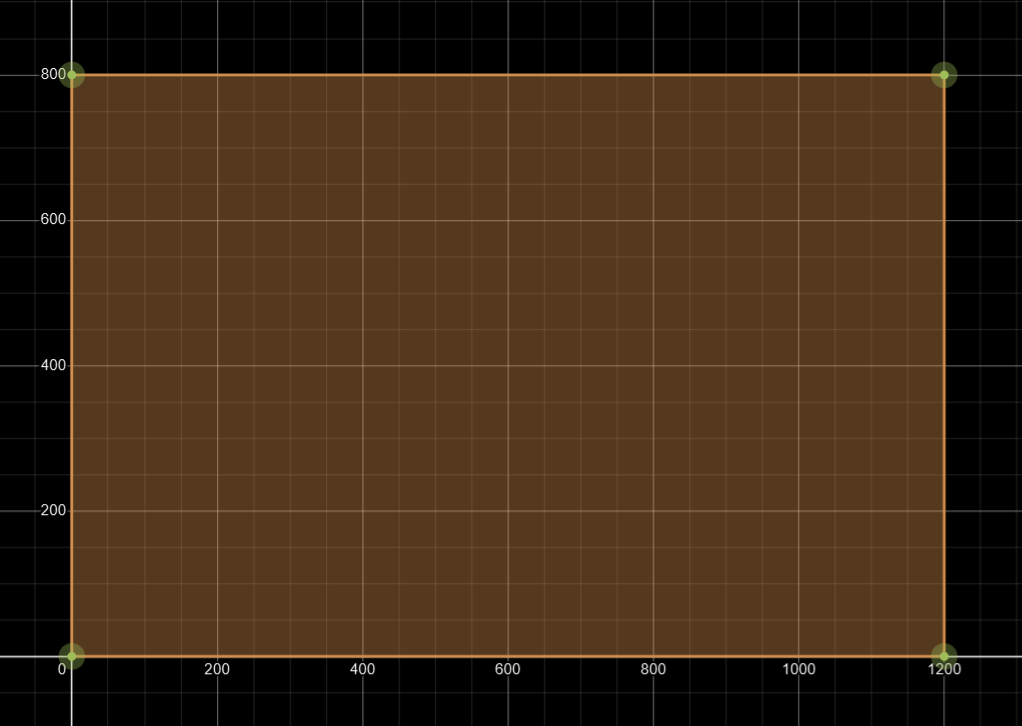
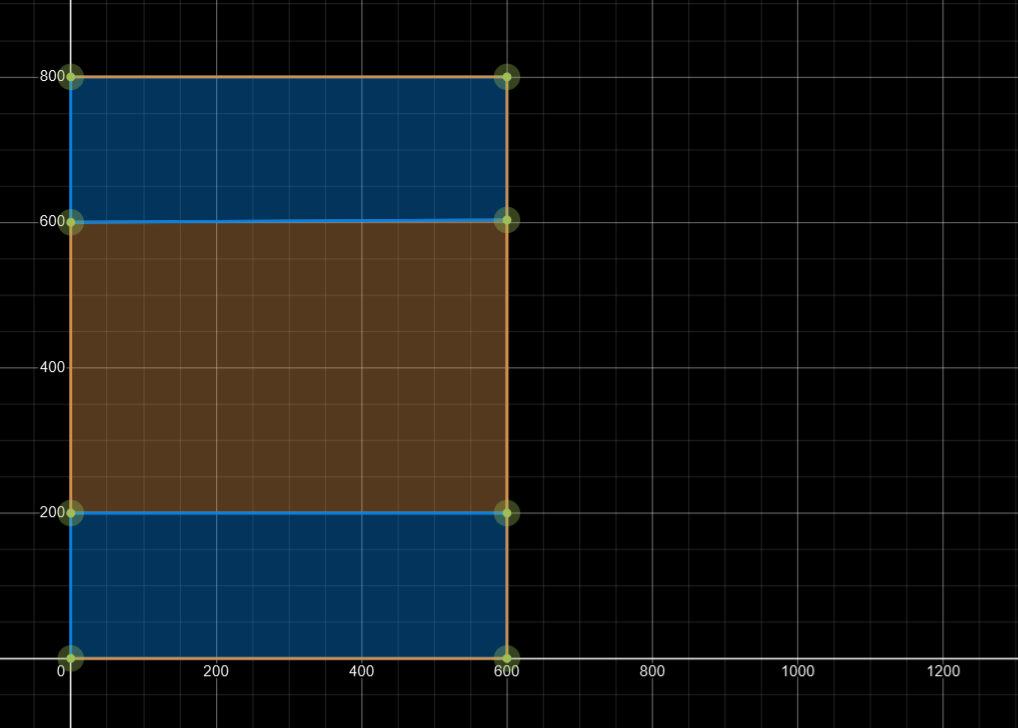
chapter 4 done

diff --git a/chapter04/src/main/java/io/github/heathensoft/guide/game/RendererTest.java b/chapter04/src/main/java/io/github/heathensoft/guide/game/RendererTest.java
@@ -22,10 +22,14 @@ public class RendererTest implements Disposable {
             #version 440
             layout (location = 0) in vec3 a_pos;
             layout (location = 1) in vec3 a_color;
+            const vec2 resolution = vec2(1200.0,800.0);
             out vec3 color;
             void main() {
                 color = a_color;
-                gl_Position = vec4(a_pos,1.0);
+                vec2 position_xy = vec2(a_pos.xy);
+                position_xy /= resolution;
+                position_xy = position_xy * 2.0 - 1.0;
+                gl_Position = vec4(position_xy, a_pos.z, 1.0);
             }""";
 
     private final static String fragment_shader_source = """
@@ -100,12 +104,23 @@ public class RendererTest implements Disposable {
         // ***********************************************************************************************
 
         float[] vertices = new float[] {
-                /*{ V0 }*/-1.0f, 1.0f, 0.0f,/*position (xyz)*/0.2f, 0.1f, 0.4f,/*color (rgb)*/
-                /*{ V1 }*/-1.0f,-1.0f, 0.0f,/*position (xyz)*/0.2f, 0.1f, 0.4f,/*color (rgb)*/
-                /*{ V2 }*/ 1.0f, 1.0f, 0.0f,/*position (xyz)*/0.2f, 0.1f, 0.4f,/*color (rgb)*/
-                /*{ V3 }*/ 1.0f, 1.0f, 0.0f,/*position (xyz)*/0.2f, 0.2f, 0.4f,/*color (rgb)*/
-                /*{ V4 }*/-1.0f,-1.0f, 0.0f,/*position (xyz)*/0.2f, 0.2f, 0.4f,/*color (rgb)*/
-                /*{ V5 }*/ 1.0f,-1.0f, 0.0f,/*position (xyz)*/0.2f, 0.2f, 0.4f,/*color (rgb)*/
+
+                /*{ V0 }*/0   , 800, 0,/*position (xyz)*/0.2f, 0.1f, 0.4f,/*color (rgb)*/
+                /*{ V1 }*/0   ,0   , 0,/*position (xyz)*/0.2f, 0.1f, 0.4f,/*color (rgb)*/
+                /*{ V2 }*/1200, 800, 0,/*position (xyz)*/0.2f, 0.1f, 0.4f,/*color (rgb)*/
+
+                /*{ V3 }*/1200, 800, 0,/*position (xyz)*/0.2f, 0.2f, 0.4f,/*color (rgb)*/
+                /*{ V4 }*/0   , 0  , 0,/*position (xyz)*/0.2f, 0.2f, 0.4f,/*color (rgb)*/
+                /*{ V5 }*/1200, 0  , 0,/*position (xyz)*/0.2f, 0.2f, 0.4f,/*color (rgb)*/
+
+                /*{ V0 }*/800 , 600, 0,/*position (xyz)*/(193 / 255f), (112 / 255f), (31 / 255f),/*color (rgb)*/
+                /*{ V1 }*/800 , 400, 0,/*position (xyz)*/(193 / 255f), (112 / 255f), (31 / 255f),/*color (rgb)*/
+                /*{ V2 }*/1000, 600, 0,/*position (xyz)*/(193 / 255f), (112 / 255f), (31 / 255f),/*color (rgb)*/
+
+                /*{ V3 }*/1000, 600, 0,/*position (xyz)*/(193 / 255f), (112 / 255f), (31 / 255f),/*color (rgb)*/
+                /*{ V4 }*/800 , 400, 0,/*position (xyz)*/(193 / 255f), (112 / 255f), (31 / 255f),/*color (rgb)*/
+                /*{ V5 }*/1000, 400, 0,/*position (xyz)*/(193 / 255f), (112 / 255f), (31 / 255f),/*color (rgb)*/
+
         };
         vertex_attrib_array = glGenVertexArrays();
         vertex_buffer_object = glGenBuffers();
@@ -122,7 +137,7 @@ public class RendererTest implements Disposable {
     public void draw() {
         glUseProgram(shader_program);
         glBindVertexArray(vertex_attrib_array);
-        glDrawArrays(GL_TRIANGLES,0,6);
+        glDrawArrays(GL_TRIANGLES,0,12);
         glBindVertexArray(0);
         glUseProgram(0);
     }

diff --git a/chapter04/src/main/java/io/github/heathensoft/guide/core/GLFWWindow.java b/chapter04/src/main/java/io/github/heathensoft/guide/core/GLFWWindow.java
@@ -161,22 +161,24 @@ public final class GLFWWindow {
         // todo: switch to the next available connected monitor
     }
 
-    public void windowedMode(Resolution resolution) {
+    public void windowedMode(int width, int height) {
         try (MemoryStack stack = MemoryStack.stackPush()){
             IntBuffer w_buffer = stack.mallocInt(1);
             IntBuffer h_buffer = stack.mallocInt(1);
             glfwGetWindowSize(window,w_buffer,h_buffer);
-            int new_window_w = resolution.width();
-            int new_window_h = resolution.height();
             int current_window_w = w_buffer.get(0);
             int current_window_h = h_buffer.get(0);
-            int new_window_x = Math.round((current_window_w - new_window_w) / 2f);
-            int new_window_y = Math.round((current_window_h - new_window_h) / 2f);
+            int new_window_x = Math.round((current_window_w - width) / 2f);
+            int new_window_y = Math.round((current_window_h - height) / 2f);
             if (isWindowedMode()) { // centered
-                glfwSetWindowSize(window,new_window_w,new_window_h);
+                glfwSetWindowSize(window, width, height);
                 glfwSetWindowPos(window,new_window_x,new_window_y);
-            } else glfwSetWindowMonitor(window,0L,new_window_x,new_window_y,new_window_w,new_window_h,GLFW_DONT_CARE);
+            } else glfwSetWindowMonitor(window,0L,new_window_x,new_window_y, width, height,GLFW_DONT_CARE);
         }
+    }
+
+    public void windowedMode(Resolution resolution) {
+        windowedMode(resolution.width(),resolution.height());
     }
 
     /** If windowed: Set the window to fullscreen on the primary monitor */

diff --git a/chapter04/src/main/java/io/github/heathensoft/guide/game/Game.java b/chapter04/src/main/java/io/github/heathensoft/guide/game/Game.java
@@ -16,14 +16,17 @@ public class Game implements IGame {
         Engine.get().run(new Game(),args);
     }
 
+    public static final int game_res_w = 1200;
+    public static final int game_res_h = 800;
     private RendererTest renderer;
     private int escape_key_prev = GLFW_RELEASE; // ESCAPE key state from the previous frame
     private int f1_key_prev = GLFW_RELEASE;     // F1 key state from the previous frame
 
     public void configure(BootConfiguration boot_config, String[] args) {
         boot_config.window_title = "lwjgl-guide";
-        boot_config.supported_resolutions.add(Resolution.R_1280x720);
-        boot_config.supported_resolutions.add(Resolution.R_1920x1080);
+        boot_config.supported_resolutions.add(new Resolution(game_res_w,game_res_h));
+        boot_config.windowed_mode_height = game_res_h;
+        boot_config.windowed_mode_width = game_res_w;
         boot_config.windowed_mode = true;
         boot_config.resizable_window = true;
         boot_config.vsync_enabled = true;
@@ -45,7 +48,7 @@ public class Game implements IGame {
             Engine.get().exitMainLoop();
         } else if (f1_key_state == GLFW_PRESS && f1_key_prev == GLFW_RELEASE) {
             if (window.isWindowedMode()) window.fullScreen();
-            else window.windowedMode(Resolution.R_1280x720);
+            else window.windowedMode(game_res_w,game_res_h);
         } escape_key_prev = escape_key_state;
         f1_key_prev = f1_key_state;
     }

diff --git a/chapter04/src/main/java/io/github/heathensoft/guide/utils/ExternalFile.java b/chapter04/src/main/java/io/github/heathensoft/guide/utils/ExternalFile.java
@@ -16,6 +16,7 @@ import java.util.stream.Collectors;
 import java.util.stream.Stream;
 
 /**
+ * Wrapper class for files
  * Frederik Dahl 12/7/2024
  */
 public class ExternalFile {

diff --git a/guide/chapter04.md b/guide/chapter04.md
@@ -1,0 +1,162 @@
+
+## Screen Space to OpenGL Coordinates
+
+In the previous chapter we were drawing two triangles to the screen by uploading their
+coordinates to the gpu.
+
+```
+float[] vertices = new float[] {
+
+        /*{ V0 }*/-1.0f, 1.0f, 0.0f,/*position (xyz)*/0.2f, 0.1f, 0.4f,/*color (rgb)*/
+        /*{ V1 }*/-1.0f,-1.0f, 0.0f,/*position (xyz)*/0.2f, 0.1f, 0.4f,/*color (rgb)*/
+        /*{ V2 }*/ 1.0f, 1.0f, 0.0f,/*position (xyz)*/0.2f, 0.1f, 0.4f,/*color (rgb)*/
+        
+        /*{ V3 }*/ 1.0f, 1.0f, 0.0f,/*position (xyz)*/0.2f, 0.2f, 0.4f,/*color (rgb)*/
+        /*{ V4 }*/-1.0f,-1.0f, 0.0f,/*position (xyz)*/0.2f, 0.2f, 0.4f,/*color (rgb)*/
+        /*{ V5 }*/ 1.0f,-1.0f, 0.0f,/*position (xyz)*/0.2f, 0.2f, 0.4f,/*color (rgb)*/
+};
+```
+These coordinates were in the NDC (normalized device coordinate) space. The OpenGL
+coordinate system. The edges of our vertices correspond to the corners of our window.
+
+![opengl-coordinate-system](img/02/opengl-ndc.png)
+
+It would be more meaningful to think in terms of screen coordinates.
+(Let's say our game resolution is 1200x800)
+
+![viewpor-1](img/04/viewport-0.png)
+
+```
+/*{ V0 }*/0   , 800, 0,/*position (xyz)*/0.2f, 0.1f, 0.4f,/*color (rgb)*/
+/*{ V1 }*/0   ,0   , 0,/*position (xyz)*/0.2f, 0.1f, 0.4f,/*color (rgb)*/
+/*{ V2 }*/1200, 800, 0,/*position (xyz)*/0.2f, 0.1f, 0.4f,/*color (rgb)*/
+
+/*{ V3 }*/1200, 800, 0,/*position (xyz)*/0.2f, 0.2f, 0.4f,/*color (rgb)*/
+/*{ V4 }*/0   , 0  , 0,/*position (xyz)*/0.2f, 0.2f, 0.4f,/*color (rgb)*/
+/*{ V5 }*/1200, 0  , 0,/*position (xyz)*/0.2f, 0.2f, 0.4f,/*color (rgb)*/
+```
+We need to convert from screen coordinates to normalized device coordinates.
+Converting from screen space to NDC is quite easy. 
+First we convert from screen space to normalized screen space by dividing the
+vertex positions by the window resolution.
+```
+normalized_x = vertex_position_x / resolution_width;
+normalized_y = vertex_position_y / resolution_heigh;
+```
+This will give us coordinates somewhere in normalized screen space:
+
+![normalized-screen-space](img/04/normalized-coordinates.png)
+
+Then to convert from normalized screen space to NDC space:
+```
+x = normalized_x * 2.0 - 1.0;
+y = normalized_y * 2.0 - 1.0; 
+```
+Which gives us coordinates somewhere in between -1.0 and 1.0.
+
+We can do these calculations on the gpu by modifying our vertex shader:
+
+```
+#version 440
+layout (location = 0) in vec3 a_pos;        // screen space
+layout (location = 1) in vec3 a_color;
+const vec2 resolution = vec2(1200.0,800.0);
+out vec3 color;
+void main() {
+    color = a_color;
+    vec2 position_xy = vec2(a_pos.xy);
+    position_xy /= resolution;              // normalize screen space
+    position_xy = position_xy * 2.0 - 1.0;  // opengl coordinates (ndc)
+    gl_Position = vec4(position_xy, a_pos.z, 1.0);
+}
+```
+Couldn't we do the transformations on the CPU? Yes, we could. But shaders do these things
+a lot faster. These are simple transformations. Later these operations get more complicated when dealing
+with world space (where something is in the actual game world).
+We're only drawing 2 triangles, imagine transforming millions of vertices.
+
+## Resizing
+
+What happens when the window resolution changes?
+
+
+
+### Viewport
+
+![screen-resize](img/04/screenshot-chapter-4-0.png)
+
+Without updating the viewport, the triangles would no longer fit the window.
+This is why we make a call to opengl before start rendering:
+
+```
+glViewport(0,0,widow_width,window_height);
+```
+![screen-resize](img/04/screenshot-chapter-4-2.png)
+
+What this does, is to tell opengl what area of the window we would like to draw to.
+We are updating the NDC surface area:
+* ndc(-1,-1) -> screen(0,0)
+* ndc( 1, 1) -> screen(window_width, window_height). 
+
+Instead of using the entire window surface area,
+we would rather like to keep the aspect ratio (1200 / 800)
+and update our surface area to match:
+
+![viewpor-1](img/04/viewport-1.png)
+
+This is why we calculate this surface area in our GLFWWindow class (viewport)
+and pass these values in instead:
+```
+glViewport(viewport_x,viewport_y,viewport_w,viewport_h);
+```
+* ndc(-1,-1) -> screen(viewport_x,viewport_y)
+* ndc( 1, 1) -> screen(viewport_w,viewport_h)
+
+![screen-resize](img/04/screenshot-chapter-4-3.png)
+
+
+## Another Rectangle
+
+Let's draw an orange rectangle to the window
+
+![viewpor-2](img/04/viewport-2.png)
+
+Do to this we have to change a few lines in RendererTest.java.
+
+Add 6 vertices to our vertices array:
+```
+/*{ V0 }*/800 , 600, 0,/*position (xyz)*/(193 / 255f), (112 / 255f), (31 / 255f),/*color (rgb)*/
+/*{ V1 }*/800 , 400, 0,/*position (xyz)*/(193 / 255f), (112 / 255f), (31 / 255f),/*color (rgb)*/
+/*{ V2 }*/1000, 600, 0,/*position (xyz)*/(193 / 255f), (112 / 255f), (31 / 255f),/*color (rgb)*/
+
+/*{ V3 }*/1000, 600, 0,/*position (xyz)*/(193 / 255f), (112 / 255f), (31 / 255f),/*color (rgb)*/
+/*{ V4 }*/800 , 400, 0,/*position (xyz)*/(193 / 255f), (112 / 255f), (31 / 255f),/*color (rgb)*/
+/*{ V5 }*/1000, 400, 0,/*position (xyz)*/(193 / 255f), (112 / 255f), (31 / 255f),/*color (rgb)*/
+```
+And tell OpenGL to draw 12 vertices in the draw method (not 6):
+```
+public void draw() {
+    glUseProgram(shader_program);
+    glBindVertexArray(vertex_attrib_array);
+    
+    glDrawArrays(GL_TRIANGLES,0,12); // < -----
+    
+    glBindVertexArray(0);
+    glUseProgram(0);
+}
+```
+
+
+![viewpor-3](img/04/viewport-3.png)
+
+
+![screen-resize](img/04/screenshot-chapter-4-1.png)
+
+## IO Utility Classes
+
+Added 2 classes to read and write from files.
+
+* Resources.java - resource folder
+* ExternalFile.java - external files
+
+
